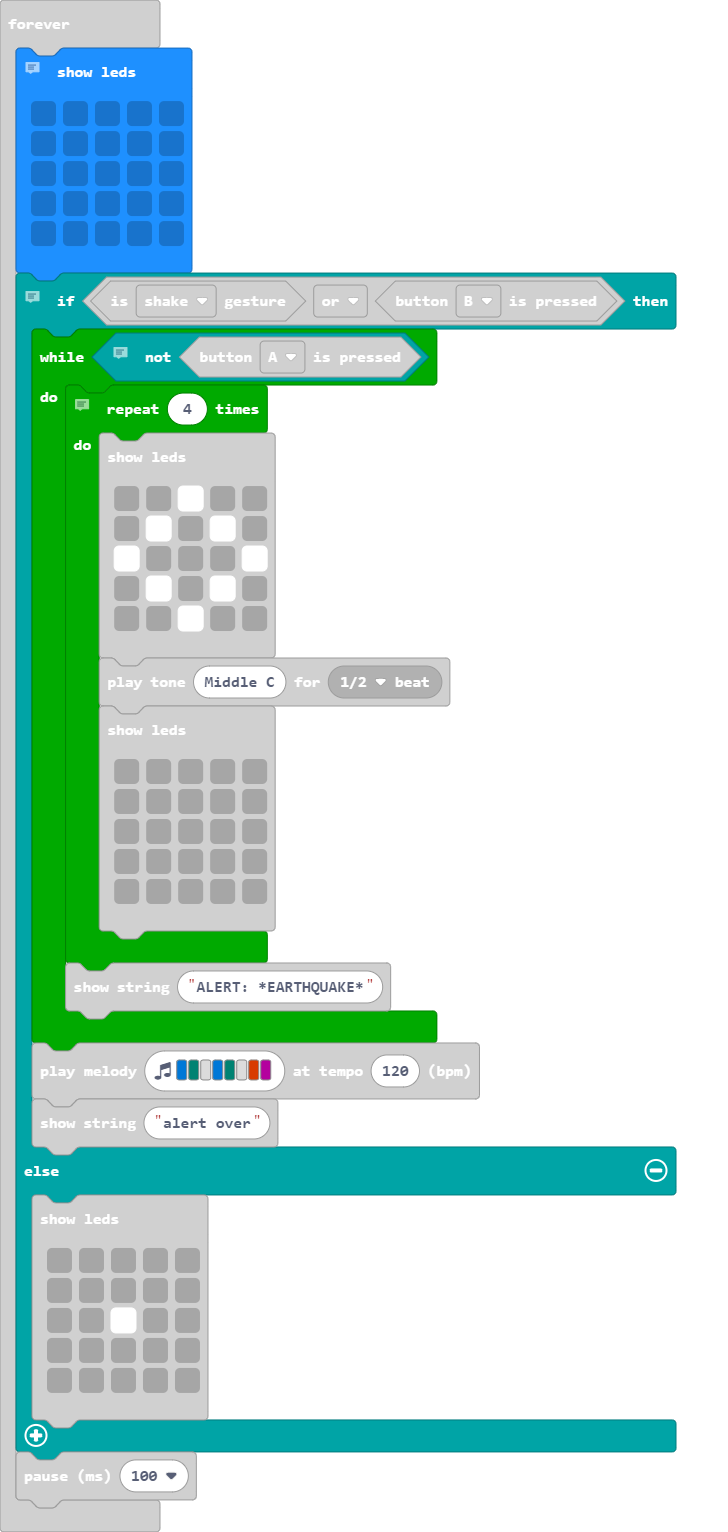
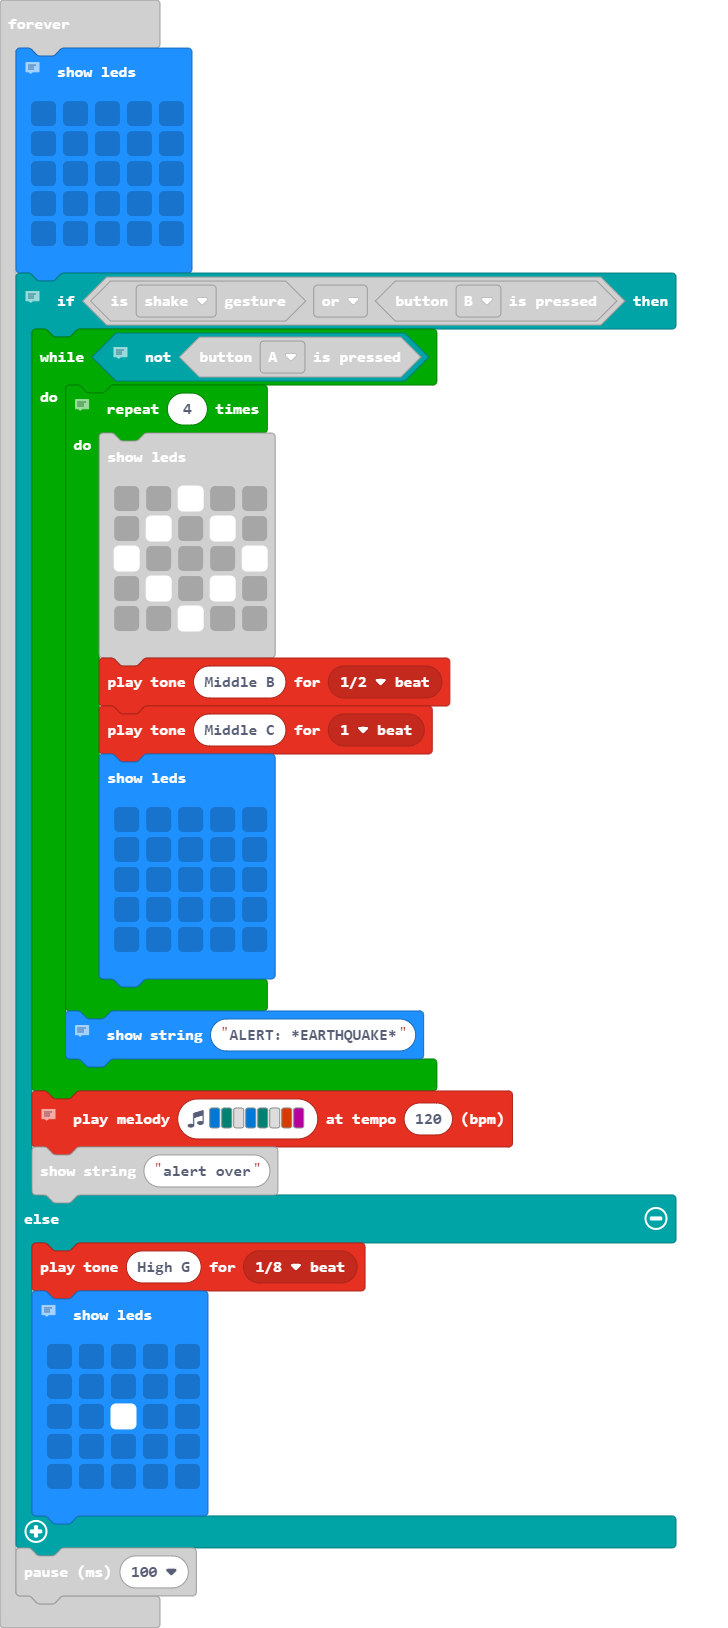
Update main.blocks, main.ts

Changed region(s): [[0.0, 0.0307, 0.9368, 0.9817]]

diff --git a/main.ts b/main.ts
@@ -23,7 +23,8 @@ basic.forever(function () {
                     . # . # .
                     . . # . .
                     `)
-                music.playTone(262, music.beat(BeatFraction.Half))
+                music.playTone(494, music.beat(BeatFraction.Half))
+                music.playTone(262, music.beat(BeatFraction.Whole))
                 basic.showLeds(`
                     . . . . .
                     . . . . .
@@ -32,11 +33,15 @@ basic.forever(function () {
                     . . . . .
                     `)
             }
+            // This is the alert message
             basic.showString("ALERT: *EARTHQUAKE*")
         }
+        // this melody tells the user that the alert is no longer in affect
         music.playMelody("E F - E F - B C ", 120)
         basic.showString("alert over")
     } else {
+        music.playTone(784, music.beat(BeatFraction.Eighth))
+        // this pattern blinks to show that the program is working
         basic.showLeds(`
             . . . . .
             . . . . .
